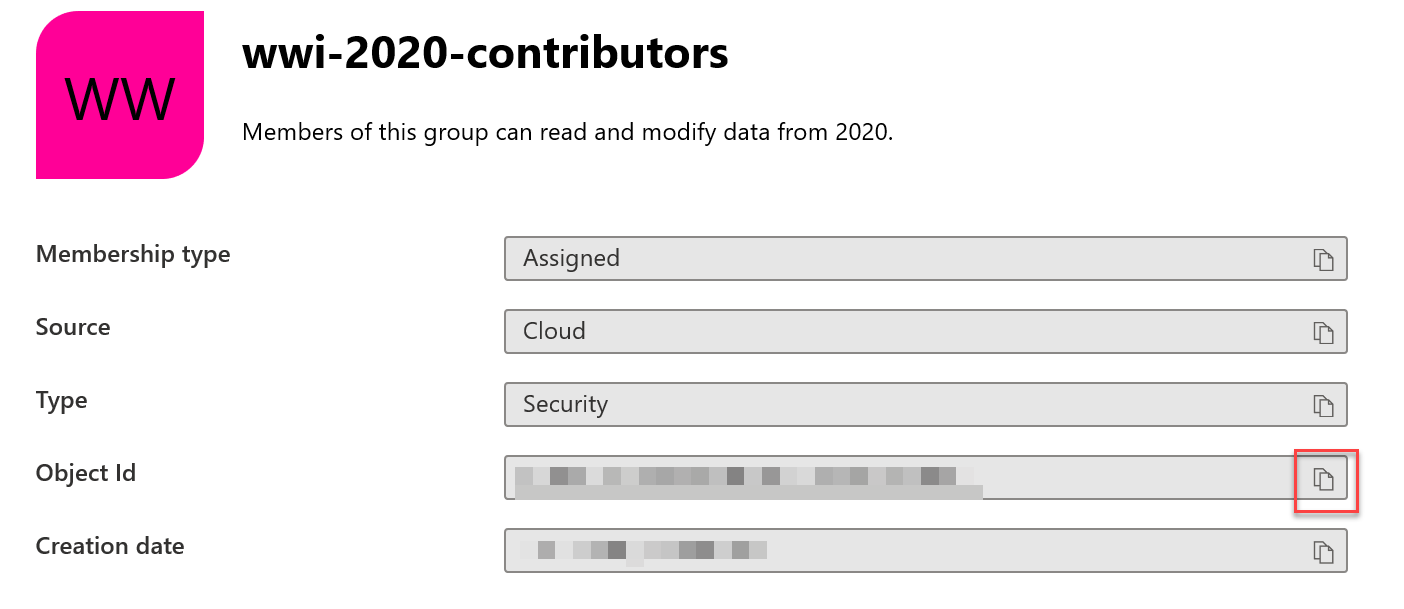
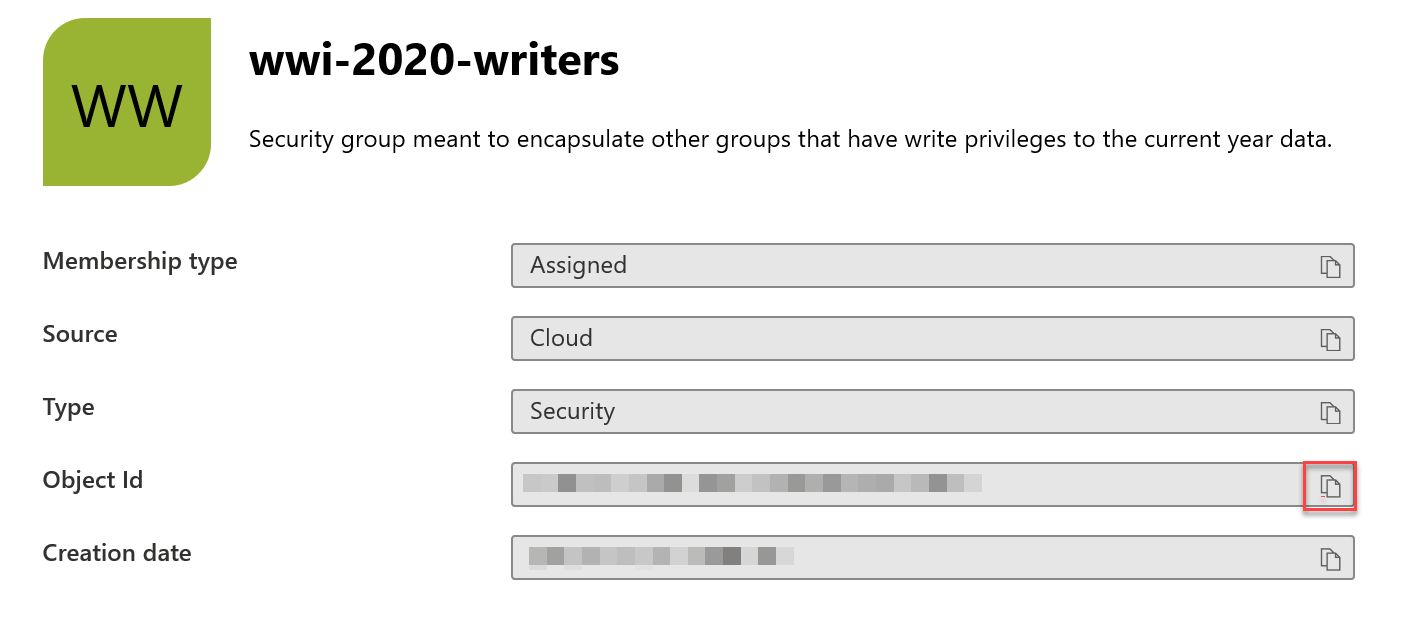
renamed wwi-2020-contributors to wwi-2020-writers

diff --git a/day-02/lab05-security.md b/day-02/lab05-security.md
@@ -92,16 +92,16 @@ For WWI in particular, in Activity 1, it was determined that they require four a
 | Group                             | Description                                                                        |
 |-----------------------------------|------------------------------------------------------------------------------------|
 | wwi-history-owners                | Users that have full access to all raw sales data                                  |
-| wwi-2020-contributors             | Security group that allows full access to the current year raw sales data. This group will only contain other security groups, it is not meant for individual user assignment.         |
-| wwi-current-contributors          | For users that need complete control over the current year raw sales data.         |
+| wwi-2020-writers             | Security group that allows full access to the current year raw sales data. This group will only contain other security groups, it is not meant for individual user assignment.         |
+| wwi-current-writers          | For users that need complete control over the current year raw sales data.         |
 | wwi-readers                       | Read-only access to all raw sales data.      |
 
 The inheritance hierarchy for the WWI groups is as follows:
 
 | Group                           | Members                                                                                |
 |---------------------------------|----------------------------------------------------------------------------------------|
-| wwi-2020-contributors           | wwi-current-contributors                                                               |
-| wwi-current-contributors        | wwi-readers                                                                            |
+| wwi-2020-writers           | wwi-current-writers                                                               |
+| wwi-current-writers        | wwi-readers                                                                            |
 
 > **Note**: You may review the Security Group setup by accessing Azure Active Directory from the Azure Portal, and selecting **Groups** from the AAD menu.
 
@@ -544,7 +544,7 @@ Possible POSIX access permissions are as follows:
 | 4            | R--        | Read                   |
 | 0            | ---        | No permissions         |
 
-On the first day, in Activity 1, you were introduced to the concept of the security surrounding storage account containers and files. As part of that exercise, the **wwi-2020-contributors** Active Directory Group is to be granted Read, Write and Execute privileges on the current year's data stored in CSV files located in storage.
+On the first day, in Activity 1, you were introduced to the concept of the security surrounding storage account containers and files. As part of that exercise, the **wwi-2020-writers** Active Directory Group is to be granted Read, Write and Execute privileges on the current year's data stored in CSV files located in storage.
 
 1. In **Synapse Analytics Studio**, select the **Data** item from the left menu.
 
@@ -562,7 +562,7 @@ On the first day, in Activity 1, you were introduced to the concept of the secur
 
    ![The Manage Access blade is shown for a directory. The $superuser principal is selected from the top table, and in the permissions section it shows the access as being Read and Execute. The Default box is present (but not checked), and there is a textbox and Add button available to add additional principals to the access list.](media/lab5_synapsestudiomanageaccessdirectoryblade.png)
 
-5. In order to add a user group or permission, you would need to first enter the User Principal Name (UPN) or Object ID for the principal and select the **Add** button. As an example, we will obtain the Object ID for the **wwi-2020-contributors** security group.
+5. In order to add a user group or permission, you would need to first enter the User Principal Name (UPN) or Object ID for the principal and select the **Add** button. As an example, we will obtain the Object ID for the **wwi-2020-writers** security group.
 
    1. In Azure Portal, expand the left menu and select **Azure Active Directory**.
 
@@ -576,21 +576,21 @@ On the first day, in Activity 1, you were introduced to the concept of the secur
 
    4. On the **Overview** screen, use the **Copy** button next to the Object Id textbox to copy the value to the clipboard.
 
-        ![On the Overview screen of the wwi-2020-contributors group, the copy button is selected next to the Object Id textbox.](media/lab5_aadgroupcopyobjectid.png)
+        ![On the Overview screen of the wwi-2020-writers group, the copy button is selected next to the Object Id textbox.](media/lab5_aadgroupcopyobjectid.png)
 
-6. In the **Manage Access** blade, paste the Object ID value of the **wwi-2020-contributors** group into the **Add user, group, or service principal** field.
+6. In the **Manage Access** blade, paste the Object ID value of the **wwi-2020-writers** group into the **Add user, group, or service principal** field.
 
-7. Select the **Add** button to add **wwi-2020-contributors** to the ACL list.
+7. Select the **Add** button to add **wwi-2020-writers** to the ACL list.
 
-8. With **wwi-2020-contributors** selected, check the **Access** checkbox, along with the **Read**, **Write**, and **Execute** permissions, then select the **Save** button.
+8. With **wwi-2020-writers** selected, check the **Access** checkbox, along with the **Read**, **Write**, and **Execute** permissions, then select the **Save** button.
 
-   ![In the principals list wwi-2020-contributors is selected. In permissions, the Access checkbox is checked along with the Read, Write, and Execute checkboxes.](media/lab5_posixaclcontributors.png)
+   ![In the principals list wwi-2020-writers is selected. In permissions, the Access checkbox is checked along with the Read, Write, and Execute checkboxes.](media/lab5_posixaclcontributors.png)
 
 9. You can also provide POSIX ACL security at the individual file level. All you would have to do is repeat steps 3-8 and observe a similar experience when selecting an individual file rather than a directory.
 
 > **Note**: When adding permissions at the directory level, there is an additional **Default** checkbox in the permissions table. By checking this box, you are able to set default permissions that will be automatically applied to any new children (directories or files) created within this directory.
 
-In future years, all WWI will need to do is remove the **wwi-current-contributors** group from the **wwi-2020-contributors** group to revoke write privileges to the 2020 year. Members of the **wwi-readers** will still be able to continue to read 2020 data because they have RBAC access to read all raw data (See Exercise #1). A new current year folder should be created to hold the new raw data csv files, along with a new security group - **wwi-2021-contributors**. This new security group should be given the same ACL privileges to the 2021 folder just as we did in this task. The **wwi-current-contributors** should also be added as a member to this new group so that they have full access to the current year data.
+In future years, all WWI will need to do is remove the **wwi-current-writers** group from the **wwi-2020-writers** group to revoke write privileges to the 2020 year. Members of the **wwi-readers** will still be able to continue to read 2020 data because they have RBAC access to read all raw data (See Exercise #1). A new current year folder should be created to hold the new raw data csv files, along with a new security group - **wwi-2021-contributors**. This new security group should be given the same ACL privileges to the 2021 folder just as we did in this task. The **wwi-current-writers** should also be added as a member to this new group so that they have full access to the current year data.
 
 > **Note**: **wwi-readers** do have write access to the current year data.
 
